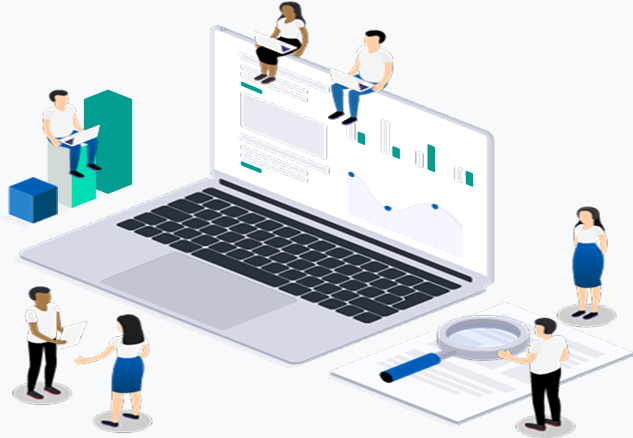
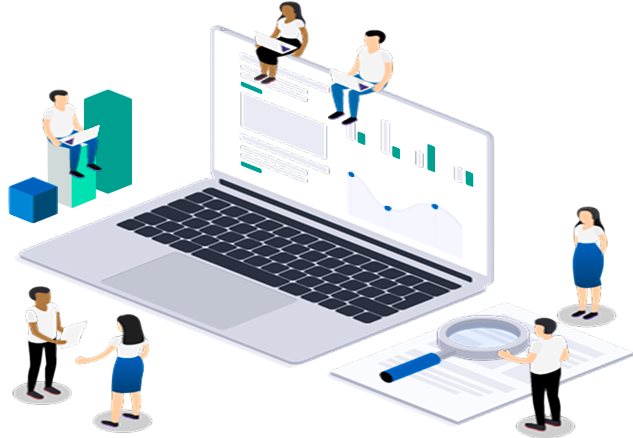
feat :: 버튼, 글, 스타일 및 이미지 수정

diff --git a/src/pages/choice.jsx b/src/pages/choice.jsx
@@ -7,46 +7,47 @@ const Choice = () => {
   return (
     <div className="min-h-screen bg-white flex flex-col items-center px-4 py-8">
       <div className="w-full max-w-6xl">
-        <h1 className="text-xl font-bold text-center mb-16 text-black mt-12">
-          학습할 프로그래밍 언어의 종류를 선택하세요.
+        <h1 className="text-2xl font-bold text-center mb-16 text-black mt-12">
+          학습할 타자 유형을 선택하세요.
         </h1>
 
         <div className="relative mb-16 flex-1 flex items-center justify-center">
           <img
-            src="https://img.freepik.com/premium-vector/cms-content-management-system-concept-with-laptop-website-with-login-smartphone_82472-89.jpg?w=360"
+            src="/images/일러스트.png"
             alt="프로그래밍 선택 이미지"
             className="w-full max-w-2xl h-80 object-contain rounded-2xl opacity-90"
           />
         </div>
 
-        <div className="flex flex-col sm:flex-row gap-16 justify-center items-center">
-          {['/word', '/sentence', '/full'].map((path, i) => {
-            const labels = ['단어', '문장', '풀코드'];
-            return (
-              <button
-                key={path}
-                className="px-20 py-7 border-2 rounded-xl text-2xl bg-white transition-all duration-300 shadow-md hover:shadow-lg transform hover:-translate-y-1 min-w-[220px]"
-                onClick={() => navigate(path)}
-                style={{
-                  borderColor: '#e5e7eb', // 기본 border-gray-200
-                  color: '#000',
-                }}
-                onMouseEnter={(e) => {
-                  e.currentTarget.style.backgroundColor = '#1CC5AE';
-                  e.currentTarget.style.borderColor = '#1CC5AE';
-                  e.currentTarget.style.color = '#fff';
-                }}
-                onMouseLeave={(e) => {
-                  e.currentTarget.style.backgroundColor = '#fff';
-                  e.currentTarget.style.borderColor = '#e5e7eb';
-                  e.currentTarget.style.color = '#000';
-                }}
-              >
-                {labels[i]}
-              </button>
-            );
-          })}
-        </div>
+        <div className="flex flex-col sm:flex-row gap-8 justify-center items-center">
+  {['/word', '/sentence', '/full'].map((path, i) => {
+    const labels = ['단어', '문장', '풀코드'];
+    return (
+      <button
+        key={path}
+        className="px-16 py-5 border-2 rounded-xl text-2xl bg-white transition-all duration-300 shadow-md hover:shadow-lg transform hover:-translate-y-1 min-w-[180px]"
+        onClick={() => navigate(path)}
+        style={{
+          borderColor: '#e5e7eb',
+          color: '#000',
+        }}
+        onMouseEnter={(e) => {
+          e.currentTarget.style.backgroundColor = '#1CC5AE';
+          e.currentTarget.style.borderColor = '#1CC5AE';
+          e.currentTarget.style.color = '#fff';
+        }}
+        onMouseLeave={(e) => {
+          e.currentTarget.style.backgroundColor = '#fff';
+          e.currentTarget.style.borderColor = '#e5e7eb';
+          e.currentTarget.style.color = '#000';
+        }}
+      >
+        {labels[i]}
+      </button>
+    );
+  })}
+</div>
+
       </div>
     </div>
   );
